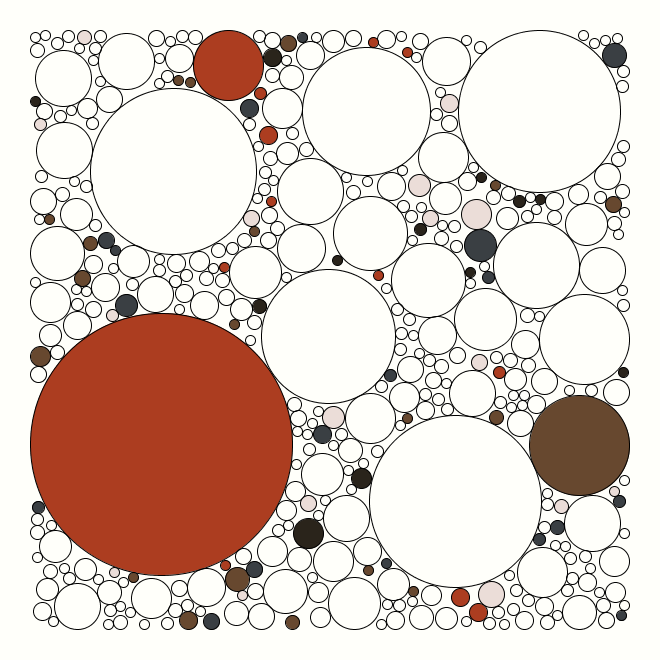
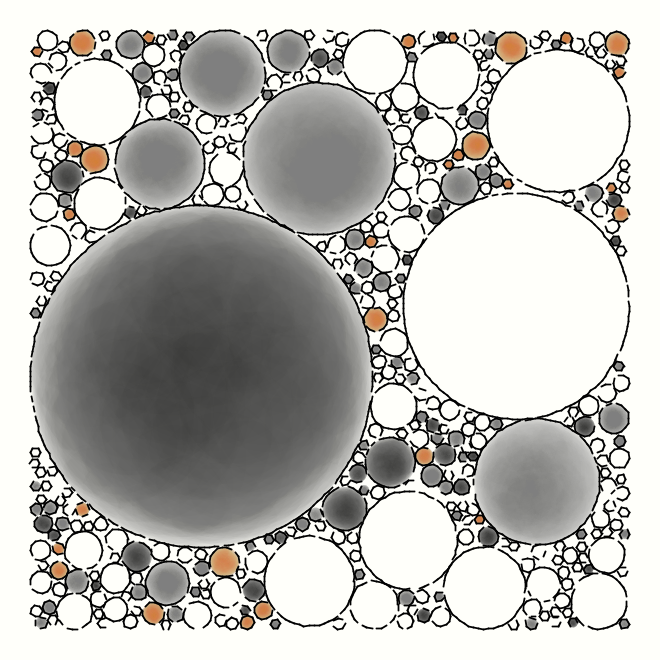
LayerFill v1

diff --git a/processing/libraries/site-packages/fills.py b/processing/libraries/site-packages/fills.py
@@ -1,3 +1,5 @@
+import math
+
 # BasicFill works like default processing fills
 class BasicFill(object):
     def __init__(self, pg):
@@ -9,7 +11,6 @@ class BasicFill(object):
         self.pg.line(v1.x, v1.y, v2.x, v2.y)
 
     def circle(self, c, r, col):
-        print('ye')
         self.pg.noStroke()
         self.pg.fill(*col)
         self.pg.circle(c.x, c.y, 2*r)
@@ -61,6 +62,23 @@ class LayerFill(BasicFill):
 
     def circle(self, c, r, col):
         self.pg.noStroke()
-        self.pg.fill(*col)
-        self.pg.circle(c.x, c.y, 2*r)
+        self.pg.fill(col[0], col[1], col[2], 3)
+        #self.pg.fill(*col)
+
+
+        for _ in range(225):
+            # random angle
+            alpha = 2 * math.pi * random(1)
+
+            r_ = random(r)
+
+            # calculating coordinates
+            x = r_ * math.cos(alpha) + c.x
+            y = r_ * math.sin(alpha) + c.y
+
+            r_fill = r - r_
+
+            self.pg.circle(x, y, 2 * r_fill)
+
+        
         self.pg.noFill()

diff --git a/processing/libraries/site-packages/tools.py b/processing/libraries/site-packages/tools.py
@@ -1,3 +1,5 @@
+import colorsys
+
 # Converts a string (or a list of strings) of the format '#2a241b' to (r, g, b)
 # Author: thw
 def hex_to_rgb(h):
@@ -10,6 +12,20 @@ def hex_to_rgb(h):
         
     h = h.lstrip('#')
     return tuple(int(h[i:i+2], 16) for i in (0, 2, 4))
+
+def hex_to_hsb_helper(h):
+    r, g, b = hex_to_rgb(h)
+    r, g, b = [x/255.0 for x in [r, g, b]]
+    h_, s, b = colorsys.rgb_to_hsv(r, g, b)
+    return (h_ * 360, s * 100, b * 100)
+
+def hex_to_hsb(h):
+    if isinstance(h, list):
+        cols = []
+        for h_ in h:
+            cols.append(hex_to_hsb_helper(h_))
+        return cols
+    return hex_to_hsb_helper(h)
 
 
 # Returns the estimated length of bezier given a step
